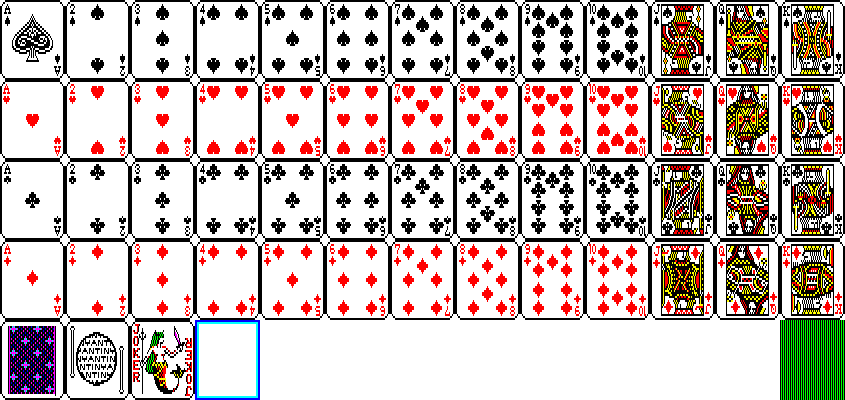
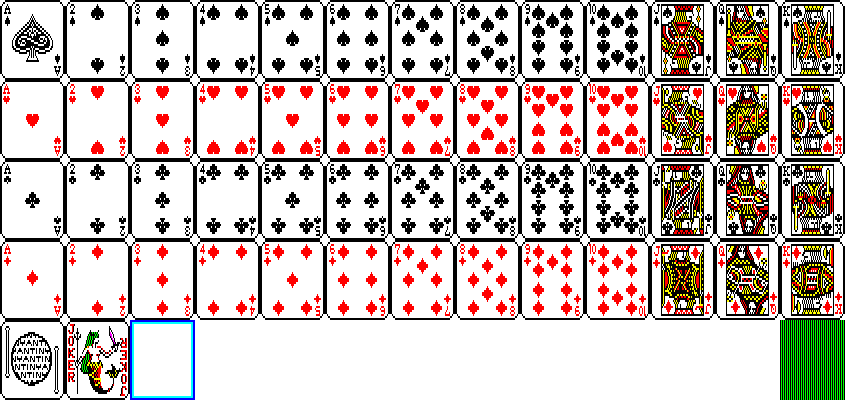
- Added support for different card back graphics and added arooкas's card back.

Changed region(s): [[0.0, 0.78, 0.3077, 1.0]]

diff --git a/README.md b/README.md
@@ -10,6 +10,8 @@
 - Change between currencies using the Page Up/Down keys.
 - Change between categories using the Left/Right arrow keys, and between items with the Up/Down arrow keys
 - Loadout code for the mercenary bucks is `bux`.
+- CVars are:
+	`hdm_cardback [0-1]`: Card back graphic.
 
 ### Slot Machines
 ---
@@ -30,6 +32,7 @@ Payouts are as follows:
 - Each player needs to have the amount of the big blind ($20) in mercenary bucks in order to join the game.
 - If you walk away from the game, your bet is forfeit. You can shoot enemies if they show up, but do not go farther than 4m away from the spot you occupied when the game started.
 - No idea how to play? See this: https://www.youtube.com/watch?v=b9HYxquQt-M
+- The only way to quit is to walk away. Yes, you will lose what's in the pot. Yes that is intentional. Consider it a tax for getting to leave early.
 
 ### Modding
 ---
